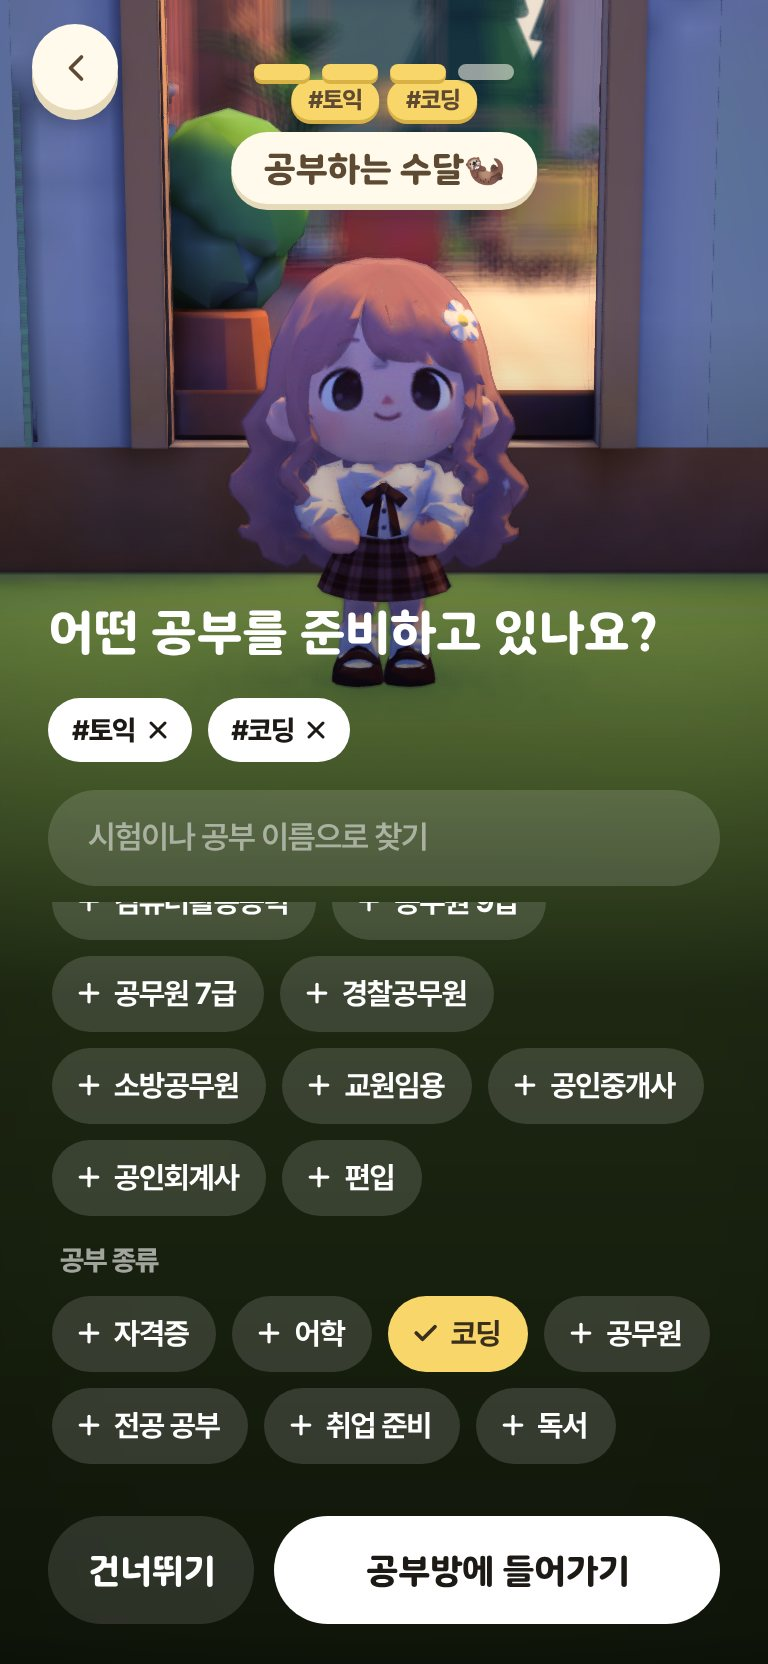
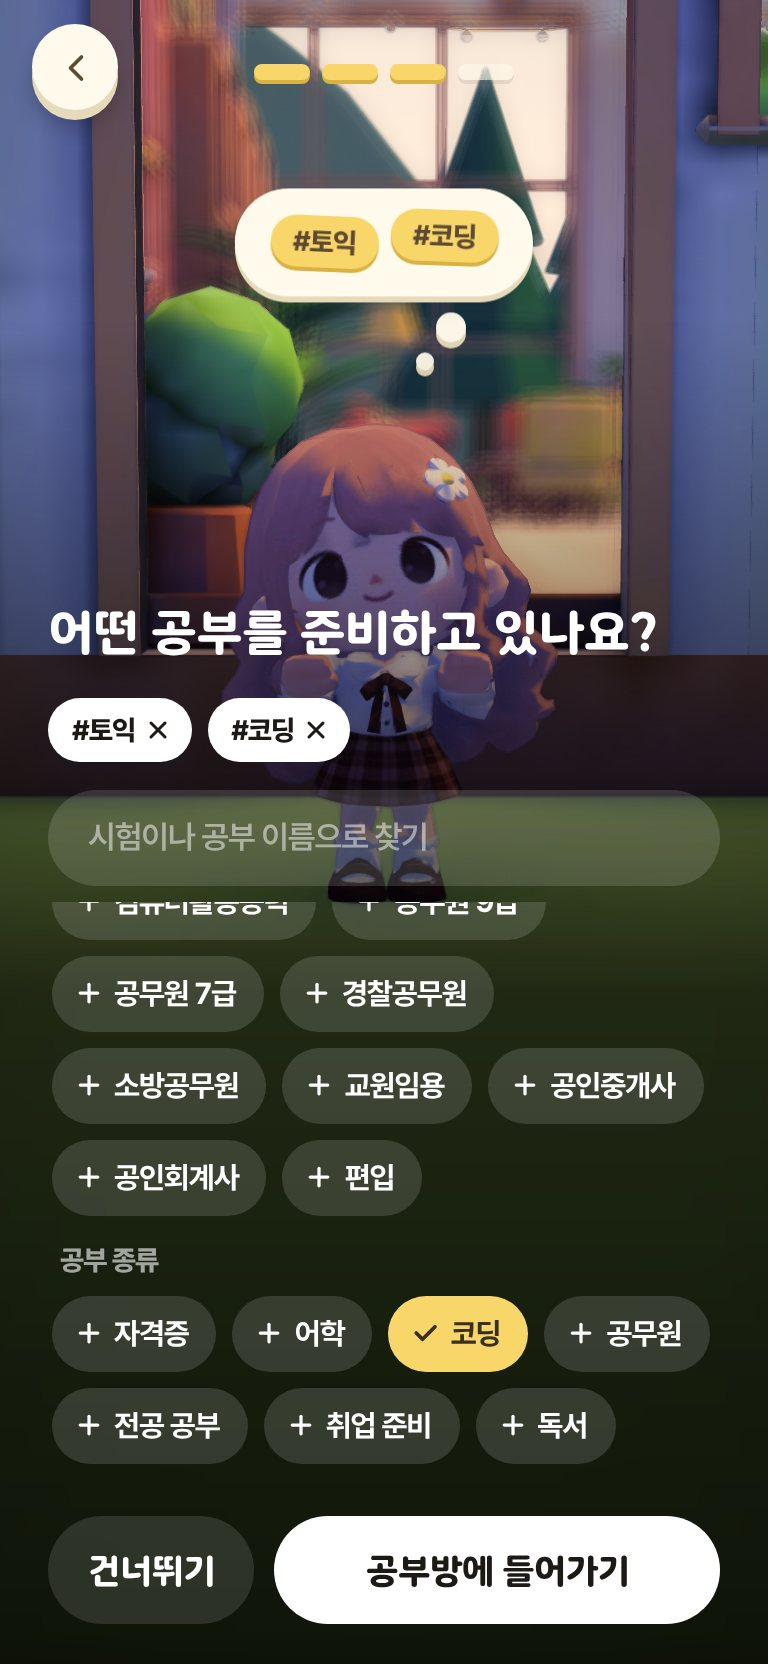
feat(web/onboarding): show picked tags in a thought bubble
사용자 요청(2026-11-24): 목표(태그) 단계에서 캐릭터를 아래로 내려 몸이 앞의 글·칩 뒤에 가리게 하고(턱이 글 칸 바로
위에 오게 맞춘다), 이름표를 뺀다. 머리 위에 크림 종이 생각 말풍선(머리 쪽으로 작은 동그라미 둘)을 두고, 고른 태그
칩이 그 안에서 저마다 다른 박자로 조금씩 둥실거린다. 아직 고르지 않았으면 점 세 개가 차례로 떠오른다. 말풍선 전체도
천천히 떠 있고, 줄인 움직임 설정이면 움직이지 않는다. 고른 목록은 아래 글 칸에 있어 말풍선은 화면 읽기에서 숨긴다.

Claude-Session: https://claude.ai/code/session_01UNZt6MP28b6hnoNrji3C1C

diff --git a/frontend/src/feature/study/onboarding/onboarding.module.css b/frontend/src/feature/study/onboarding/onboarding.module.css
@@ -100,7 +100,7 @@
 }
 .actorHit:focus-visible { outline: 3px solid var(--i-sun); outline-offset: 2px; }
 
-/* 2·3단계 이름표: 머리 위 크림 종이 알약, 아래로 짧은 꼬리. */
+/* 2단계 이름표: 머리 위 크림 종이 알약, 아래로 짧은 꼬리. */
 .plate {
   position: absolute; transform: translate(-50%, -100%);
   display: flex; flex-direction: column; align-items: center; gap: 6px;
@@ -115,14 +115,44 @@
   overflow: hidden; text-overflow: ellipsis; max-width: 100%;
 }
 .plateEmpty { color: var(--i-ink-soft); }
-.plateTags { order: -1; display: flex; flex-wrap: wrap; justify-content: center; gap: 4px; }
-.plateTag {
-  padding: 3px 9px; border-radius: 999px;
-  background: var(--i-sun); color: var(--i-on-sun); box-shadow: 0 2px 0 var(--i-sun-ledge);
-  font-size: 12px; font-weight: 800; white-space: nowrap;
-  animation: pop 260ms cubic-bezier(0.34, 1.56, 0.64, 1);
-}
 @keyframes pop { from { transform: scale(0.4); opacity: 0; } }
+
+/* 3단계 생각 말풍선: 머리 위 크림 구름, 머리 쪽으로 작은 동그라미 둘. 전체가 천천히 둥실거린다. */
+.thought {
+  position: absolute; width: 0; height: 0;
+  animation: drift 3.6s ease-in-out infinite;
+}
+@keyframes drift { 50% { transform: translateY(-5px); } }
+.thoughtDotSmall, .thoughtDotLarge, .thoughtCloud {
+  position: absolute; background: var(--i-paper);
+  box-shadow: 0 3px 0 var(--i-paper-ledge), 0 6px 14px rgb(0 0 0 / 0.12);
+}
+.thoughtDotSmall { left: 16px; top: -12px; width: 9px; height: 9px; border-radius: 50%; }
+.thoughtDotLarge { left: 26px; top: -32px; width: 15px; height: 15px; border-radius: 50%; }
+.thoughtCloud {
+  left: 0; bottom: 40px; transform: translateX(-50%);
+  display: flex; flex-wrap: wrap; justify-content: center; align-items: center; gap: 8px 6px;
+  width: max-content; max-width: min(300px, 84vw); min-width: 92px; min-height: 52px;
+  padding: 14px 18px; border-radius: 30px;
+  animation: pop 320ms cubic-bezier(0.34, 1.56, 0.64, 1);
+}
+.thoughtChipSlot { display: inline-flex; animation: pop 280ms cubic-bezier(0.34, 1.56, 0.64, 1); }
+.thoughtChip {
+  --tilt: 3deg;
+  display: inline-flex; padding: 5px 11px; border-radius: 999px;
+  background: var(--i-sun); color: var(--i-on-sun); box-shadow: 0 2px 0 var(--i-sun-ledge);
+  font-size: 14px; font-weight: 800; white-space: nowrap;
+  animation: bob 2.6s ease-in-out infinite;
+}
+@keyframes bob {
+  0%, 100% { transform: translateY(0) rotate(var(--tilt)); }
+  50% { transform: translateY(-4px) rotate(calc(var(--tilt) * -1)); }
+}
+.thinking { display: inline-flex; gap: 6px; }
+.thinking i { width: 8px; height: 8px; border-radius: 50%; background: var(--i-ink-soft); animation: think 1.2s ease-in-out infinite; }
+.thinking i:nth-child(2) { animation-delay: 0.18s; }
+.thinking i:nth-child(3) { animation-delay: 0.36s; }
+@keyframes think { 0%, 60%, 100% { transform: translateY(0); opacity: 0.45; } 30% { transform: translateY(-5px); opacity: 1; } }
 
 .skipEntrance {
   position: fixed; z-index: 30; display: flex;
@@ -131,7 +161,6 @@
 }
 
 @media (prefers-reduced-motion: reduce) {
-  .body, .plateTag { animation: none; }
-  .shade { transition: none; }
+  .body,   .shade { transition: none; }
   }
 .skipEntrance .secondary { height: 40px; padding: 0 18px; font-size: 15px; background: rgb(0 0 0 / 0.45); }

diff --git a/frontend/src/feature/study/onboarding/OnboardingPanel.tsx b/frontend/src/feature/study/onboarding/OnboardingPanel.tsx
@@ -1,6 +1,6 @@
 // 온보딩 1–3단계 화면(문밖 잔디 위). 카드 없이 화면 아래 검은 그라데이션 위에 흰 제목·설명과 단순한 알약 단추
 // (사용자 결정 2026-11-24: "쓸데없는 모달 UI 없애고 아래 배경에 검은색 그라디언트"), 위에 진행 표시·뒤로.
-import { useEffect, useRef } from 'react'
+import { useEffect, useRef, type CSSProperties } from 'react'
 import { IconChevronLeft, IconGenderFemale, IconGenderMale } from '@tabler/icons-react'
 import { t } from '../../../l10n/t'
 import { webText } from '../../../l10n/web_ko'
@@ -181,17 +181,43 @@ export function ActorHit(props: { placement: ActorPlacement; gender: Gender; sel
   )
 }
 
-/** 2·3단계: 머리 위 이름표. 입력하는 대로 바뀌고, 3단계에서는 고른 태그가 아래 붙는다. */
-export function NamePlate(props: { placement: ActorPlacement; name: string; tags: Tag[] }) {
+/** 2단계: 머리 위 이름표. 입력하는 대로 바뀐다. */
+export function NamePlate(props: { placement: ActorPlacement; name: string }) {
   const { head } = props.placement
   return (
     <span className={s.plate} style={{ left: head.x, top: head.y - 6 }} aria-hidden>
       <span className={`${s.plateName} ${props.name ? '' : s.plateEmpty}`}>{props.name || webText.onboardingNameLabel}</span>
-      {props.tags.length > 0 && (
-        <span className={s.plateTags}>
-          {props.tags.map((tag) => <span key={tag.id} className={s.plateTag}>#{tag.name}</span>)}
-        </span>
-      )}
+    </span>
+  )
+}
+
+/**
+ * 3단계: 머리 위 생각 말풍선(사용자 요청 2026-11-24). 고른 태그 칩이 그 안에서 저마다 조금씩 둥실거리고, 아직 고른
+ * 것이 없으면 점 세 개가 차례로 떠오른다. 말풍선에서 머리 쪽으로 작은 동그라미 둘이 이어진다. 고른 목록은 아래
+ * 글 칸에도 있으므로 화면 읽기에서는 숨긴다.
+ */
+export function ThoughtBubble(props: { placement: ActorPlacement; tags: Tag[] }) {
+  const { head } = props.placement
+  return (
+    <span className={s.thought} style={{ left: head.x, top: head.y }} aria-hidden>
+      <span className={s.thoughtDotSmall} />
+      <span className={s.thoughtDotLarge} />
+      <span className={s.thoughtCloud}>
+        {props.tags.length === 0 ? (
+          <span className={s.thinking}><i /><i /><i /></span>
+        ) : (
+          props.tags.map((tag, i) => (
+            <span key={tag.id} className={s.thoughtChipSlot}>
+              <span
+                className={s.thoughtChip}
+                style={{ animationDuration: `${2.3 + (i % 3) * 0.45}s`, animationDelay: `${-i * 0.7}s`, '--tilt': `${i % 2 ? -3 : 3}deg` } as CSSProperties}
+              >
+                #{tag.name}
+              </span>
+            </span>
+          ))
+        )}
+      </span>
     </span>
   )
 }

diff --git a/frontend/src/feature/study/onboarding/onboardingScene.ts b/frontend/src/feature/study/onboarding/onboardingScene.ts
@@ -37,6 +37,17 @@ const smooth = (t: number) => t * t * (3 - 2 * t)
 
 /** 캐릭터를 둘 화면 칸(px): 위 진행 표시 아래부터 온보딩 카드 위까지. */
 export type FreeArea = { top: number; bottom: number }
+/** 목표 단계에서 머리 위 생각 말풍선에 남기는 높이(px). 캐릭터는 그만큼 내려가 몸 아래쪽이 글 뒤에 가린다. */
+const goalBubbleRoom = 120
+/**
+ * 목표 단계에서 캐릭터(발~머리 1m)를 둘 칸: 머리 꼭대기는 말풍선 자리 아래, 턱은 글 칸 바로 위(머리가 키의 약 47%)에
+ * 오게 해 얼굴은 보이고 몸은 글·칩 뒤에 가린다.
+ */
+function goalArea(free: FreeArea): FreeArea {
+  const top = free.top + goalBubbleRoom
+  const height = Math.max(120, (free.bottom + 16 - top) / 0.47)
+  return { top, bottom: top + height }
+}
 /** 문밖 카메라가 캐릭터에서 물러나는 최대 거리(m). 이보다 멀면 잔디 위 나무·바위가 앞을 가린다. */
 const maxFrontDistance = 5.5
 
@@ -171,11 +182,15 @@ export class OnboardingScene {
       if (a.selectAt === -1 && a.walk < 0.05) a.selectAt = nowMs
       actors.push(this.actorOf(g, a, t, nowMs, this.step === 'pick' && g === chosen ? 1.06 : 1))
     }
+    const free = this.free(size)
     const focus = this.step === 'pick'
-      // 두 캐릭터와 발밑 이름 알약.
-      ? frontCamera(new Vector3(standX + 0.2, lawnY + 0.5, doorZ), 0.95, 1.5, size, this.free(size))
-      // 머리 위 이름표(목표 단계는 태그까지)가 칸 안에 들어오게 위를 더 남긴다.
-      : frontCamera(new Vector3(standX + 0.4, lawnY + (this.step === 'goal' ? 0.68 : 0.62), doorZ), this.step === 'goal' ? 1.0 : 1.1, 0.8, size, this.free(size))
+      ? frontCamera(new Vector3(standX + 0.2, lawnY + 0.5, doorZ), 0.95, 1.5, size, free)
+      : this.step === 'name'
+      // 머리 위 이름표가 칸 안에 들어오게 위를 남긴다.
+      ? frontCamera(new Vector3(standX + 0.4, lawnY + 0.62, doorZ), 1.1, 0.8, size, free)
+      // 목표 단계(사용자 요청 2026-11-24): 캐릭터를 아래로 내려 몸 아래쪽은 온보딩 글·칩 뒤에 가리고, 머리 위에는
+      // 생각 말풍선 자리(goalBubbleRoom)를 남긴다.
+      : frontCamera(new Vector3(standX + 0.4, lawnY + 0.5, doorZ), 1.0, 0.8, size, goalArea(free))
     this.camera = this.camera && !this.reduceMotion ? StudyRoomSeatCamera.lerp(this.camera, focus, 1 - Math.exp(-dt * 4)) : focus
     return { camera: this.camera, actors, hiddenSeat: 0 }
   }

diff --git a/frontend/src/feature/study/onboarding/useOnboarding.tsx b/frontend/src/feature/study/onboarding/useOnboarding.tsx
@@ -11,7 +11,7 @@ import type { ActorPlacement, StudyRoomCinematic } from '../room3d/StudyRoom3dVi
 import type { Tag } from '../tags/tagsStore'
 import { entranceSeats, OnboardingScene, type Gender } from './onboardingScene'
 import { OnboardingSaver, OnboardingSaveError, nicknameProblem } from './onboardingSave'
-import { OnboardingPanel, ActorHit, NamePlate, SkipEntrance } from './OnboardingPanel'
+import { OnboardingPanel, ActorHit, NamePlate, SkipEntrance, ThoughtBubble } from './OnboardingPanel'
 import { CoachMarks } from './CoachMarks'
 
 export type OnboardingPhase = 'pick' | 'name' | 'goal' | 'entering' | 'tour'
@@ -110,7 +110,8 @@ export function useOnboarding(enabled: boolean): Onboarding | null {
 
   const actorOverlay = (p: ActorPlacement): ReactNode | null => {
     if (phase === 'pick') return <ActorHit placement={p} gender={p.id as Gender} selected={gender === p.id} onPick={setGender} />
-    if (phase === 'name' || phase === 'goal') return <NamePlate placement={p} name={name.trim()} tags={phase === 'goal' ? tags : []} />
+    if (phase === 'name') return <NamePlate placement={p} name={name.trim()} />
+    if (phase === 'goal') return <ThoughtBubble placement={p} tags={tags} />
     return null
   }
 

diff --git a/docs/design-parity/exceptions.md b/docs/design-parity/exceptions.md
@@ -25,5 +25,5 @@
 - **공부 요약("오늘의 공부" 시트, 앱에 없는 화면)**: 스토리에 올려 오늘 공부한 결과를 자랑하는 클립보드 프로필 시트 한 장. 구성은 사용자가 준 클립보드 프로필 레퍼런스(2026-11-23)를 따르되 캐릭터·로고·문구는 쓰지 않는다. 판·집게·모눈 종이·티켓·클립·테이프·낙서는 Codex로 그린 일러스트(`docs/sources.md`)이고, 집게는 판과 따로 그려 판 위 가장자리에 걸쳐 위로 솟게 얹는다. 티켓은 청록 띠·바코드 절취부가 있는 승차권에 "STUDY VILLAGE"를 둥근 글꼴로 얹는다. 글자·사진·스티커는 캔버스로 얹는다. 정리 규칙(사용자 피드백 2026-11-24 "예쁜데 중구난방"): 글꼴은 숫자=둥근 글꼴, 라벨·메모=손글씨(Gaegu) 둘만. 색은 데이터=잉크 갈색, 손글씨·장식=청록, 강조=숫자 밑 햇살 형광펜 셋만. 큰 장식은 뜻이 있는 것(사진 테이프·티켓과 클립·폴라로이드 카메라 스티커·"나!" 화살표·방 순위 트로피)만 두고 떠 있던 앱 스티커·워터마크·인덱스 탭은 뺐다. 자잘한 손그림(사용자 요청 2026-11-24)은 청록·노랑 낙서만 남겨 라벨 앞 작은 아이콘(별·꽃·음표·반짝이)과 정해 둔 빈자리 몇 곳("나!" 옆 꽃, 구분선 근처 별·음표)에 작게 둔다. 배치: 제목 자리에 "6시간 25분 공부"(둥근 글꼴 청록 + 흰 테두리, 숫자 크게·단위와 "공부" 작게), 위 칸은 정면 프로필 사진 + 연속 공부(불꽃)·방 순위(트로피, 서버 값이 있을 때만), 손그림 구분선, 아래 칸은 이번 세션·공부일 + 3인칭 "오늘의 공부방" 폴라로이드. 이름·목표·과목은 넣지 않는다(사용자 결정). 사진은 끝내기 직전에 3D 방에서 두 장 찍는다(정면은 벽이 가리지 않게 가까운 면을 사람 앞 0.75m까지 당김). 사진이 없으면 시계 무늬 빈 칸. 방 순위는 서버 랭킹(계획 5단계)이 없어 실제 흐름에서는 줄을 숨기고 개발용 표본 주소에서만 채운다. 공부방 위에 시트와 섬 단추(이미지 저장·공유(지원 시)·닫기)만 뜨고 방은 흐리지 않고 검정 35%로만 어둡게 한다. 저장 이미지(스토리 1080×1920)는 시계 무늬 호수 위 같은 시트 + StudyVillage. 섬 팔레트 낮 값으로 고정. 개발 빌드 전용 상시 확인 주소: `/?recap=goal`, `/?recap=more`, `/?recap=plain` — `recap/useRecapDemo.ts`. 캡처: `recap/sheet_modal.png`.
 - **공부방 태그·추천(앱에 없는 기능)**: 공부방 목록 맨 위에 "나와 같은 공부" 칸(밤하늘 위 흰 제목, 내 태그 알약, 오른쪽 "태그 수정" 섬 단추, 아래 같은 카드 2열). 내 태그가 없으면 같은 자리에 종이 카드 안내와 "태그 고르기" 햇살 단추. 겹치는 방이 없으면 빈 상태 그림 대신 한 줄 안내(방이 많아 보여야 해서 큰 빈 그림을 두지 않음). 카드에는 소개 아래 초록 `#태그` 한 줄. "내 공부 태그" 시트는 과목 고르기 시트(PaperSheet·턱 있는 알약 칩·둥근 입력칸)를 따르고, 고른 태그는 초록 알약. 문구는 `l10n/web_tags_ko.ts`(새로 씀). 검색 중에는 추천 칸을 숨긴다. 캡처: `tags/rooms_recommended_mobile.jpg`, `tags/my_tags_sheet.jpg`. 사용자 결정(2026-11-23, `docs/plan/study-tags.md`).
 - **월드 고정 하늘·가까운 면**: 앱은 하늘을 화면 한 장으로 그려 카메라를 돌려도 달·해가 화면에 붙어 있다. 웹은 카메라를 따라다니는 하늘 구(`three/skyDome.ts`)에 그려 달·해·별이 창문과 함께 움직이고(해·달은 자리들이 보는 쪽 하늘을 가로지름), 카메라 가까운 면을 0.1→0.3m, 먼 면을 80m로 바꿔 창틀·문틀·벽·그림 사이 깊이 경쟁을 줄였다. 사용자 버그 신고(2026-11-23).
-- **첫 가입 온보딩(앱에 없는 흐름, 사용자 결정 2026-11-23·24)**: 앱은 공부방 첫 방문 때 소개 카드(`studyOnboarding*`)만 넘긴다. 웹은 4단계: ① 카페 서쪽 문밖 잔디에서 남자·여자 캐릭터가 나란히 서 있고 누르거나 아래 ♂·♀ 아이콘 정사각형 단추(CTA "다음" 등은 흰색 알약, 캐릭터는 화면 밖으로 조금 잘려도 크게 — 사용자 요청 2026-11-24)(1:1, 한 변 최대 128px)로 고른다(처음엔 아무것도 고르지 않고 "다음" 단추도 숨김, 캐릭터 발밑 이름 알약 없음 — 사용자 요청 2026-11-24. 둘 다 서로 다른 기다리는 동작: 남자는 통통 튀며 팔을 흔들고 두리번, 여자는 두 손을 모으고 몸을 흔들며 고개를 갸웃. 고르면 한 걸음 나와 남자는 웅크렸다 팔을 들고 점프, 여자는 한 바퀴 돌며 살짝 뛴다 — 사용자 요청 2026-11-24), ② 이름 — 머리 위 이름표가 입력대로 바뀌고 캐릭터가 그 이름표를 의식하듯 올려다본다(사용자 요청 2026-11-24), ③ 목표 태그(0개면 건너뛰기, 고른 태그가 이름표 위에 붙는다), ④ 고른 캐릭터가 문으로 걸어 들어가 내 자리(공용 테이블·개인 책상 0–18번 중 무작위)에 앉는 것을 카메라가 따라간 뒤 공부 탭 위 코치 마크 4장(미니 타이머·사운드·공부방 탭·통계 탭). 1–3단계 글·단추는 카드 없이 화면 아래 검은 그라데이션 위 흰 제목 한 줄과 테두리 없는 알약 단추(사용자 요청 2026-11-24: "쓸데없는 모달 UI 없애고", "필요없는 description, border 없애"). 캐릭터 GLB에 애니메이션 클립이 없어 서기·걷기·손 흔들기는 앉은 자세와 같은 방식으로 관절을 돌려 만든다(`room3d/domain/actorMotion.ts`, 사용자 결정). 문밖·통로 좌표는 `build_study_room_v2.py`에서 읽었다. 걸어 들어가는 동안 벽 윗부분을 걷어 문밖 카메라가 벽 너머를 본다. 줄인 움직임 설정이면 걷기·흔들기 없이 바로 자리로 옮긴다. 캡처: `docs/design-parity/onboarding/`
+- **첫 가입 온보딩(앱에 없는 흐름, 사용자 결정 2026-11-23·24)**: 앱은 공부방 첫 방문 때 소개 카드(`studyOnboarding*`)만 넘긴다. 웹은 4단계: ① 카페 서쪽 문밖 잔디에서 남자·여자 캐릭터가 나란히 서 있고 누르거나 아래 ♂·♀ 아이콘 정사각형 단추(CTA "다음" 등은 흰색 알약, 캐릭터는 화면 밖으로 조금 잘려도 크게 — 사용자 요청 2026-11-24)(1:1, 한 변 최대 128px)로 고른다(처음엔 아무것도 고르지 않고 "다음" 단추도 숨김, 캐릭터 발밑 이름 알약 없음 — 사용자 요청 2026-11-24. 둘 다 서로 다른 기다리는 동작: 남자는 통통 튀며 팔을 흔들고 두리번, 여자는 두 손을 모으고 몸을 흔들며 고개를 갸웃. 고르면 한 걸음 나와 남자는 웅크렸다 팔을 들고 점프, 여자는 한 바퀴 돌며 살짝 뛴다 — 사용자 요청 2026-11-24), ② 이름 — 머리 위 이름표가 입력대로 바뀌고 캐릭터가 그 이름표를 의식하듯 올려다본다(사용자 요청 2026-11-24), ③ 목표 태그(0개면 건너뛰기. 캐릭터는 아래로 내려 몸이 글·칩 뒤에 가리고 이름표 없이, 머리 위 생각 말풍선 안에서 고른 태그 칩이 저마다 둥실거린다. 고르기 전에는 점 세 개 — 사용자 요청 2026-11-24), ④ 고른 캐릭터가 문으로 걸어 들어가 내 자리(공용 테이블·개인 책상 0–18번 중 무작위)에 앉는 것을 카메라가 따라간 뒤 공부 탭 위 코치 마크 4장(미니 타이머·사운드·공부방 탭·통계 탭). 1–3단계 글·단추는 카드 없이 화면 아래 검은 그라데이션 위 흰 제목 한 줄과 테두리 없는 알약 단추(사용자 요청 2026-11-24: "쓸데없는 모달 UI 없애고", "필요없는 description, border 없애"). 캐릭터 GLB에 애니메이션 클립이 없어 서기·걷기·손 흔들기는 앉은 자세와 같은 방식으로 관절을 돌려 만든다(`room3d/domain/actorMotion.ts`, 사용자 결정). 문밖·통로 좌표는 `build_study_room_v2.py`에서 읽었다. 걸어 들어가는 동안 벽 윗부분을 걷어 문밖 카메라가 벽 너머를 본다. 줄인 움직임 설정이면 걷기·흔들기 없이 바로 자리로 옮긴다. 캡처: `docs/design-parity/onboarding/`
 - **캐릭터 프로필 시트(앱 studyMember 시트의 일부만)**: 공부방에서 캐릭터를 누르면 이름과 공개 태그를 보인다(사용자 결정 2026-11-23). 웹 공부방에는 아직 나만 앉아 있어 내 프로필만 열리고, 앱 시트의 이번 세션·방 순위·신고·친구 요청 칸은 방 멤버가 붙을 때 더한다.
